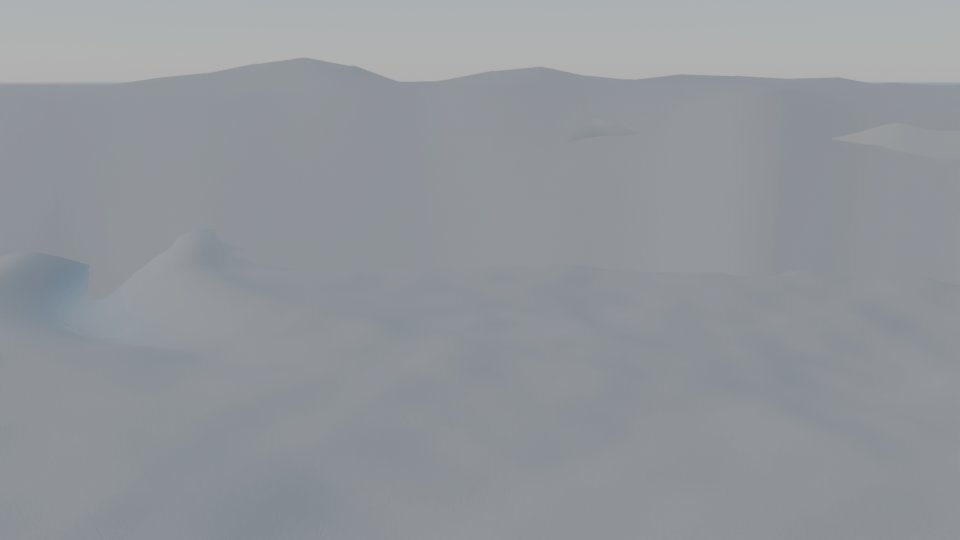
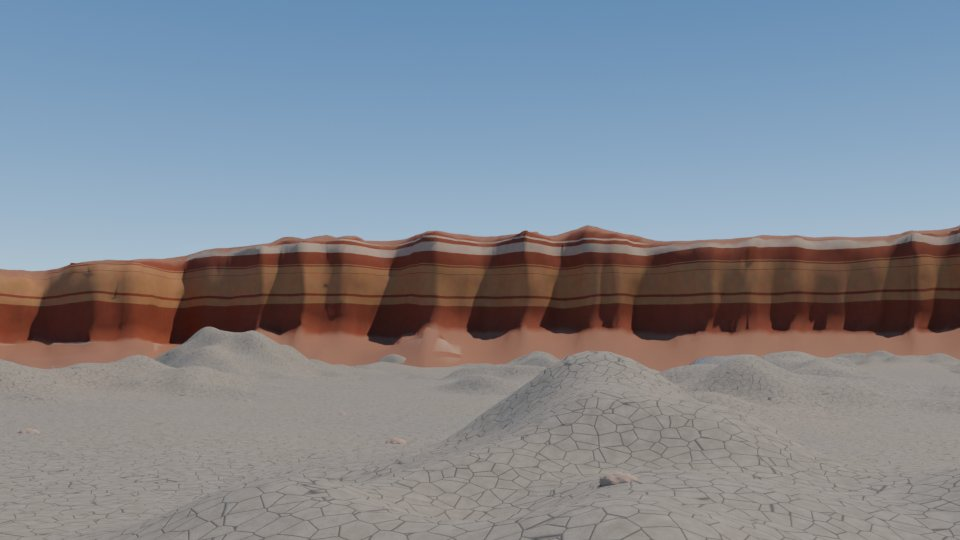
FNS 2026: Cycles — sol de desierto y detrito al pie de las barrancas en 'hoy', exposición del título, pluma inclinada por el viento; nuevas pruebas de los 6 capítulos
Claude-Session: https://claude.ai/code/session_0195RQEvsYtd9tYwae5q3CpK

diff --git a/fns2026/escenas/hiperreal/triasico_cycles.py b/fns2026/escenas/hiperreal/triasico_cycles.py
@@ -123,7 +123,7 @@ MODO = {"hoy": False}
 def altura_hoy(x, zw):
     """Valle de la Luna hoy: lomas bajas y redondeadas de arcilla gris (la Formación
     Ischigualasto erosionada), sin el río ni el cordón del Triásico."""
-    lomas = max(0.0, fbm2(x * 0.035 + 11, zw * 0.035, 4)) ** 1.6 * 9
+    lomas = max(0.0, fbm2(x * 0.04 + 11, zw * 0.04, 4)) ** 1.4 * 14
     return fbm2(x * 0.012, zw * 0.012, 4) * 2.5 + lomas
 
 
@@ -144,7 +144,8 @@ def web_a_blender(p):
 
 # los capítulos: mismas cámaras que la web + la luz de cada momento
 CAPITULOS = {
-    "titulo":  dict(desde=(-120, 26, 60), hasta=(-95, 14, 40), mira=(-60, 0, 0), sol=(6, 250), bruma=0.0025, ceniza=0, volcan=0.2),
+    # título: amanecer rasante; con sol a 6° la imagen quedaba casi negra → más exposición
+    "titulo":  dict(desde=(-120, 26, 60), hasta=(-95, 14, 40), mira=(-60, 0, 0), sol=(9, 250), bruma=0.0025, ceniza=0, volcan=0.2, exposicion=0.1, foco=60),
     "rio":     dict(desde=(-95, 3.2, 26), hasta=(-30, 2.6, 20), mira=(0, 0, -10), sol=(22, 230), bruma=0.0018, ceniza=0, volcan=0.3),
     "bosque":  dict(desde=(8, 2.2, 12), hasta=(62, 2.2, -4), mira=(120, 1, -20), sol=(40, 200), bruma=0.0035, ceniza=0, volcan=0.4),
     # llanura: la cámara a la altura de los ojos junto a la manada, mirando por la quebrada
@@ -153,7 +154,7 @@ CAPITULOS = {
     "ceniza":  dict(desde=(128, 3.4, 4), hasta=(118, 5, 16), mira=(104, 0, -4), sol=(14, 170), bruma=0.012, ceniza=1, volcan=1),
     # hoy: parado en la arcilla gris cuarteada, las barrancas rojas al fondo, sol alto y
     # cielo limpio de San Juan (sin bruma: el aire del desierto es seco y transparente)
-    "hoy":     dict(desde=(118, 2.2, 16), hasta=(100, 2.6, 22), mira=(-120, 25, 40), sol=(62, 120), bruma=0.0, ceniza=0, volcan=0, hoy=True, foco=40, f=8),
+    "hoy":     dict(desde=(118, 2.2, 16), hasta=(100, 2.6, 22), mira=(-120, 25, 40), sol=(62, 120), bruma=0.0, ceniza=0, volcan=0, hoy=True, foco=40, f=8, exposicion=-1.2),
 }
 
 ESPECIES_LUGARES = {
@@ -322,9 +323,9 @@ def material_suelo(hoy=False, ceniza=0.0):
     if hoy:
         # Valle de la Luna: arcilla gris clara cuarteada. Las grietas se ven por la sombra de
         # adentro (color), no sólo por el relieve: con sol alto el bump solo casi no se nota.
-        suelo = mezcla(0.95, suelo, (0.50, 0.47, 0.43))
+        suelo = mezcla(0.95, suelo, (0.50, 0.43, 0.34))
         manchas = ruido(0.05, 5)
-        suelo = mezcla(sal(manchas, "Factor", "Fac"), (0.40, 0.42, 0.38), (0.56, 0.49, 0.40))   # gris verdoso ↔ ocre
+        suelo = mezcla(sal(manchas, "Factor", "Fac"), (0.42, 0.40, 0.34), (0.58, 0.46, 0.34))   # gris verdoso ↔ ocre
         suelo = mezcla(sal(micro, "Factor", "Fac"), suelo, (0.44, 0.41, 0.37), "MULTIPLY")
         placas = nodo(nt, "ShaderNodeTexVoronoi", feature="DISTANCE_TO_EDGE")
         placas.inputs["Scale"].default_value = 2.4
@@ -472,7 +473,7 @@ def material_estratos():
     l.new(sep.outputs["Z"], suma.inputs[2])
     capas = nodo(nt, "ShaderNodeTexNoise")          # 1D en altura: bandas de espesor irregular
     capas.noise_dimensions = "1D"
-    capas.inputs["Scale"].default_value = 0.09
+    capas.inputs["Scale"].default_value = 0.045       # capas de 2 a 8 m, como en el paredón real
     capas.inputs["Detail"].default_value = 6
     capas.inputs["Roughness"].default_value = 0.6
     l.new(suma.outputs[0], capas.inputs["W"])
@@ -496,7 +497,18 @@ def material_estratos():
     mx.inputs["Factor"].default_value = 0.35
     l.new(rampa.outputs["Color"], mx.inputs["A"])
     l.new(sal(sucio, "Color"), mx.inputs["B"])
-    l.new(mx.outputs["Result"], bs.inputs["Base Color"])
+    # en lo plano (talud, cima) no se ven capas sino el detrito que cae de la pared
+    geo = nodo(nt, "ShaderNodeNewGeometry")
+    sepn = nodo(nt, "ShaderNodeSeparateXYZ")
+    l.new(geo.outputs["Normal"], sepn.inputs[0])
+    plano = nodo(nt, "ShaderNodeMapRange")
+    plano.inputs["From Min"].default_value, plano.inputs["From Max"].default_value = 0.72, 0.9
+    l.new(sepn.outputs["Z"], plano.inputs["Value"])
+    detrito = nodo(nt, "ShaderNodeMix", data_type="RGBA")
+    l.new(plano.outputs[0], detrito.inputs["Factor"])
+    l.new(mx.outputs["Result"], detrito.inputs["A"])
+    detrito.inputs["B"].default_value = (0.36, 0.17, 0.10, 1)
+    l.new(detrito.outputs["Result"], bs.inputs["Base Color"])
     bs.inputs["Roughness"].default_value = 0.92
     bump = nodo(nt, "ShaderNodeBump")
     bump.inputs["Strength"].default_value = 0.6
@@ -517,7 +529,7 @@ def barrancas(ojo, mira, distancia=230.0, abertura=80.0):
     for c in range(columnas):
         a = rumbo + math.radians(-abertura + 2 * abertura * c / (columnas - 1))
         carcava = abs(fbm2(c * 0.09, 3.3, 3)) * 2.2
-        alto = 38 + fbm2(c * 0.025, 9.1, 3) * 26
+        alto = 34 + fbm2(c * 0.012, 9.1, 4) * 48       # mesetas altas y bajas, no un muro parejo
         r0 = distancia + fbm2(c * 0.02, 1.7, 3) * 60 + carcava * 14
         col = []
         for dr, fh in perfil:
@@ -583,7 +595,9 @@ def cielo(elevacion, azimut, bruma, volumetrica, ceniza, limpio=False):
         nt.links.new(pv.outputs[0], nt.nodes["World Output"].inputs["Volume"])
     # el sol como lámpara (sombras nítidas con penumbra real) alineado con el del cielo
     sol = bpy.data.objects.new("sol", bpy.data.lights.new("sol", "SUN"))
-    sol.data.energy = 3.0 * (1 - 0.65 * ceniza)
+    # al mediodía en el desierto el sol manda sobre el relleno azul del cielo: con 3 la arcilla
+    # clara salía gris azulada y oscura (medido: RGB 84,89,96 en la prueba del 28/09)
+    sol.data.energy = 6.0 if limpio else 3.0 * (1 - 0.65 * ceniza)
     sol.data.angle = math.radians(0.545)
     sol.data.color = (1.0, 0.92, 0.82) if elevacion > 15 else (1.0, 0.72, 0.48)
     sol.rotation_euler = (math.radians(90 - elevacion), 0, math.radians(azimut + 90))
@@ -627,10 +641,13 @@ def volcan(actividad):
                                         location=(pos.x + 60, pos.y, pos.z + 262 + 550))
         col = bpy.context.object
         col.name = "columna_ceniza"
-        # el viento de altura inclina la pluma: la parte de arriba se corre a sotavento
-        for v in col.data.vertices:
-            k = (v.co.z + 550) / 1100
-            v.co.x += 380 * k * k
+        # el viento de altura inclina la pluma. Se inclina el objeto entero y no los vértices:
+        # las coordenadas "Generated" del shader salen de la caja del objeto, y al correr los
+        # vértices el eje de la pluma dejaba de estar en el centro y la base quedaba vacía.
+        inclinacion = math.radians(16)
+        col.rotation_euler.y = inclinacion
+        col.location.x += 550 * math.sin(inclinacion)
+        col.location.z -= 550 * (1 - math.cos(inclinacion)) + 25
         mv = bpy.data.materials.new("humo_volcan")
         mv.use_nodes = True
         nt = mv.node_tree
@@ -751,15 +768,19 @@ def arbol_gn(molde):
     return t
 
 
+# hoy: nada de plantas del Triásico, sólo piedras sueltas y concreciones sobre la arcilla
+REGLAS_HOY = [
+    ("roca_arenisca", 1.2, lambda x, z: True, (0.15, 0.6)),
+]
+
+
 def sembrar(moldes, centro_x, centro_zw, lado, densidad_extra=1.0, hoy=False):
     """Puntos por especie (con reglas de hábitat) → un objeto de puntos con Geometry Nodes."""
-    if hoy:
-        return 0
     azar = random.Random(231)
     total = 0
     area_ha = (lado * lado) / 10000.0
     puntos = {}
-    for nombre, por_100m2, regla, (e0, e1) in REGLAS:
+    for nombre, por_100m2, regla, (e0, e1) in (REGLAS_HOY if hoy else REGLAS):
         if nombre not in moldes:
             continue
         objetivo = int(por_100m2 * area_ha * 100 * densidad_extra)
@@ -894,7 +915,7 @@ def camara(cap, cuadros, animar):
     return cam
 
 
-def configurar_render(ancho, alto, muestras):
+def configurar_render(ancho, alto, muestras, exposicion=None):
     esc = bpy.context.scene
     esc.render.engine = "CYCLES"
     gpu = os.environ.get("FNS_GPU")
@@ -921,7 +942,7 @@ def configurar_render(ancho, alto, muestras):
         esc.view_settings.look = "AgX - Medium High Contrast"
     except TypeError:
         pass
-    esc.view_settings.exposure = -0.8
+    esc.view_settings.exposure = -0.8 if exposicion is None else exposicion
     esc.render.film_transparent = False
     vl = esc.view_layers[0]
     vl.use_pass_mist = True
@@ -985,10 +1006,8 @@ def hacer_capitulo(clave, a):
     if hay_rio(cx) > 0.2 and not hoy:
         agua(cx + 40, czw, lado)
     if hoy:
-        estratos = barrancas((cx, czw), (cap["mira"][0], cap["mira"][2]))
-        horizonte(cx, czw, estratos.data.materials[0])
-    else:
-        horizonte(cx, czw, t.data.materials[0])
+        barrancas((cx, czw), (cap["mira"][0], cap["mira"][2]))
+    horizonte(cx, czw, t.data.materials[0])
     cielo(*cap["sol"], cap["bruma"], volumetrica, cap["ceniza"], limpio=hoy)
     volcan(cap["volcan"])
 
@@ -1004,7 +1023,7 @@ def hacer_capitulo(clave, a):
 
     cuadros = int(a.segundos * 30)
     camara(cap, cuadros, a.animar)
-    configurar_render(ancho, alto, muestras)
+    configurar_render(ancho, alto, muestras, cap.get("exposicion"))
     bpy.ops.wm.save_as_mainfile(filepath=os.path.join(carpeta, f"{clave}.blend"))
     esc = bpy.context.scene
     esc.render.image_settings.file_format = "PNG"
